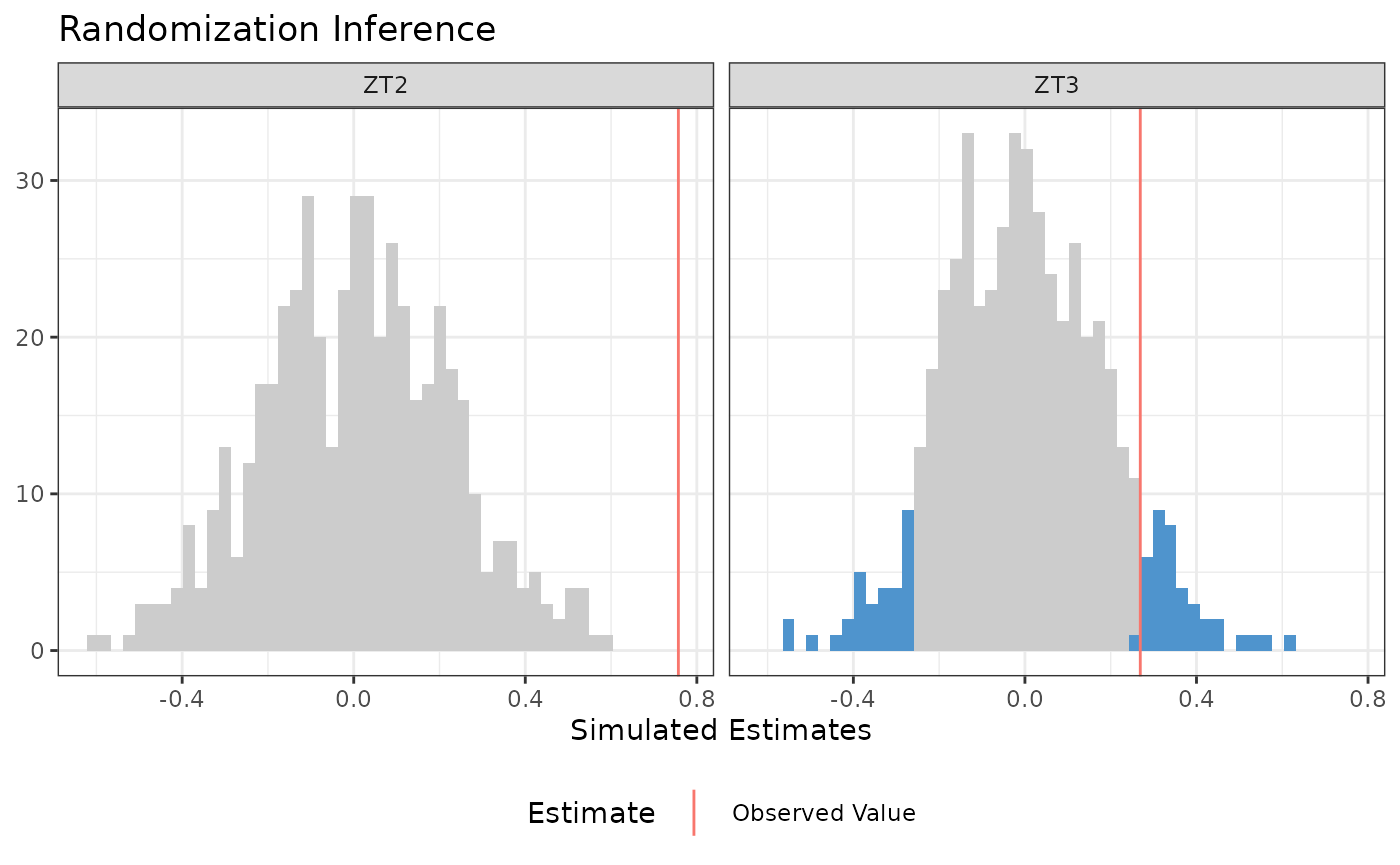
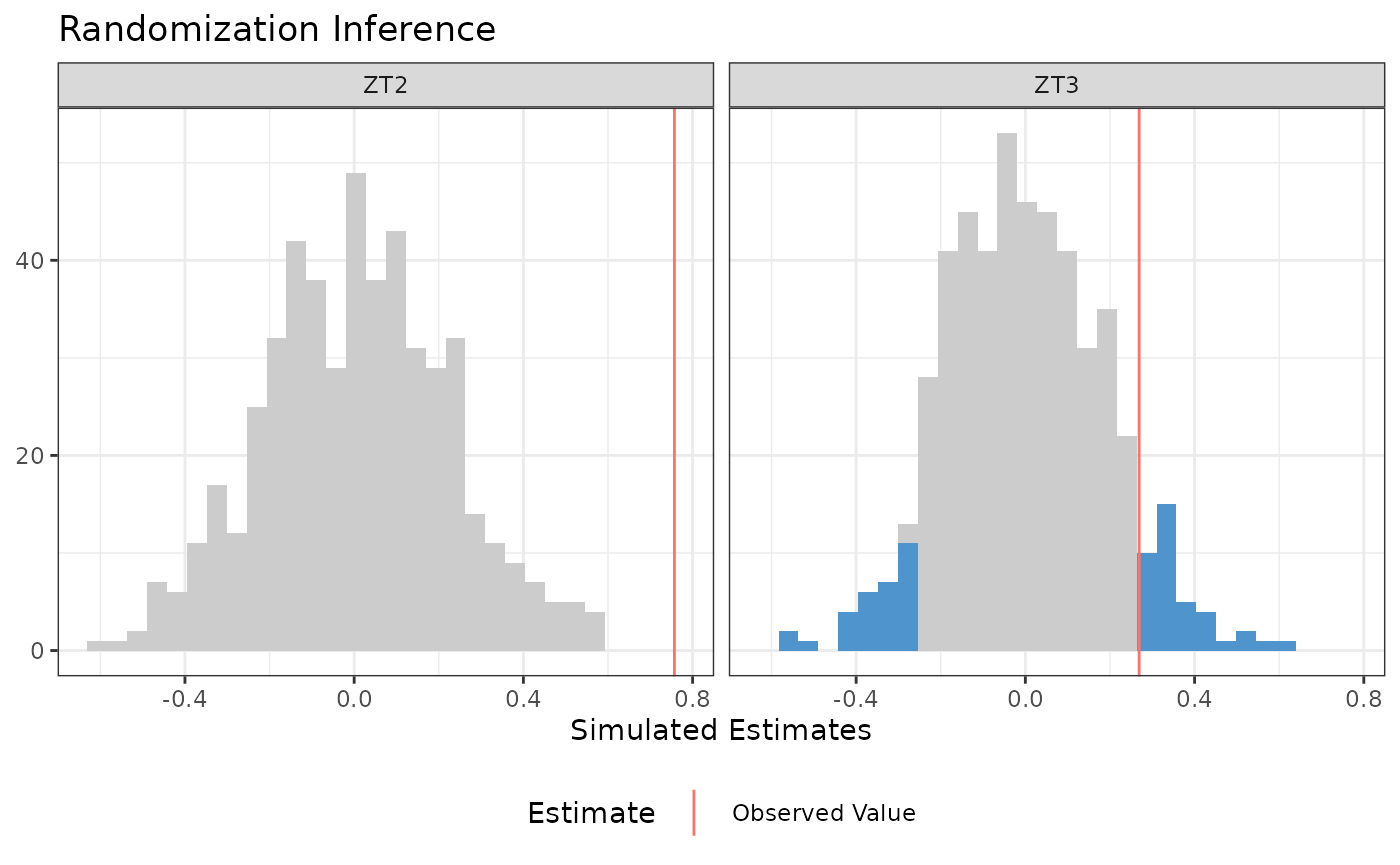
Deploying to gh-pages from @ acoppock/ri2@03ac85fae513a8ab8b379be1cd1f3f171d5374af 🚀

diff --git a/news/index.html b/news/index.html
@@ -50,6 +50,8 @@
 <li>Fixed S3 class name conflict with <code>bit::ri</code> (<a href="https://github.com/acoppock/ri2/issues/28" class="external-link">#28</a>): class is now <code>"ri2"</code>.</li>
 <li>Fixed histogram bar stacking (<a href="https://github.com/acoppock/ri2/issues/6" class="external-link">#6</a>): use <code>fill</code> aesthetic instead of <code>alpha</code> in <code>plot.ri2()</code>.</li>
 <li>Fixed <code><a href="https://rdrr.io/r/graphics/plot.default.html" class="external-link">plot()</a></code> failing to draw any bars when the number of simulations is not a multiple of 20 (<a href="https://github.com/acoppock/ri2/issues/32" class="external-link">#32</a>, thanks <a href="https://github.com/mreece13" class="external-link">@mreece13</a>): the bin count is now floored to a whole number, as <code><a href="https://ggplot2.tidyverse.org/reference/geom_histogram.html" class="external-link">geom_histogram()</a></code> requires.</li>
+<li>
+<code><a href="https://rdrr.io/r/graphics/plot.default.html" class="external-link">plot()</a></code> no longer over-bins multi-arm results. The bin count came from the total number of simulated estimates, but the plot facets by term, so a four-arm trial drew three times as many bins per panel as a two-arm trial over the same number of simulations per panel. Bins are now chosen per panel.</li>
 <li>Replaced floating-point rounding hack with tolerance-based comparison in <code>summary.ri2()</code> and <code>plot.ri2()</code>.</li>
 <li>Implemented <code>sampling_weights</code> argument (<a href="https://github.com/acoppock/ri2/issues/16" class="external-link">#16</a>): pass a column name containing sampling weights; multiplied with the auto-computed IPW weights when both are present.</li>
 <li>Removed <code>IPW_weights</code> argument: pre-specified IPW weights are incoherent for RI because weights must vary with each permuted assignment. IPW is always computed from the declaration via <code><a href="https://declaredesign.org/r/randomizr/reference/obtain_condition_probabilities.html" class="external-link">obtain_condition_probabilities()</a></code>.</li>

diff --git a/news/index.md b/news/index.md
@@ -62,6 +62,12 @@
   floored to a whole number, as
   [`geom_histogram()`](https://ggplot2.tidyverse.org/reference/geom_histogram.html)
   requires.
+- [`plot()`](https://rdrr.io/r/graphics/plot.default.html) no longer
+  over-bins multi-arm results. The bin count came from the total number
+  of simulated estimates, but the plot facets by term, so a four-arm
+  trial drew three times as many bins per panel as a two-arm trial over
+  the same number of simulations per panel. Bins are now chosen per
+  panel.
 - Replaced floating-point rounding hack with tolerance-based comparison
   in `summary.ri2()` and `plot.ri2()`.
 - Implemented `sampling_weights` argument
